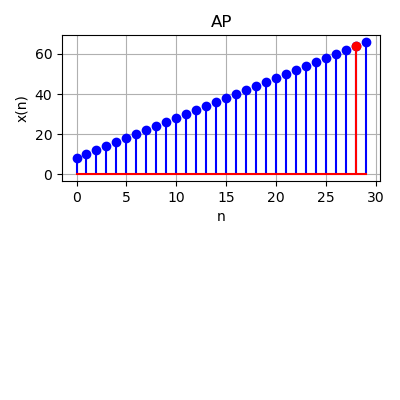
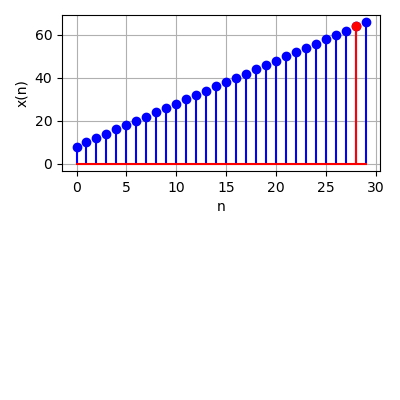
Add files via upload

diff --git a/10.5.2.8/codes/fig.py b/10.5.2.8/codes/fig.py
@@ -22,7 +22,7 @@ if highlight_value_1 != 0:
 plt.grid(True)    
 plt.xlabel('n')
 plt.ylabel('x(n)')
-plt.title('AP')
+plt.title('')
 plt.tight_layout()
 plt.savefig('plot.png')
 plt.show()
